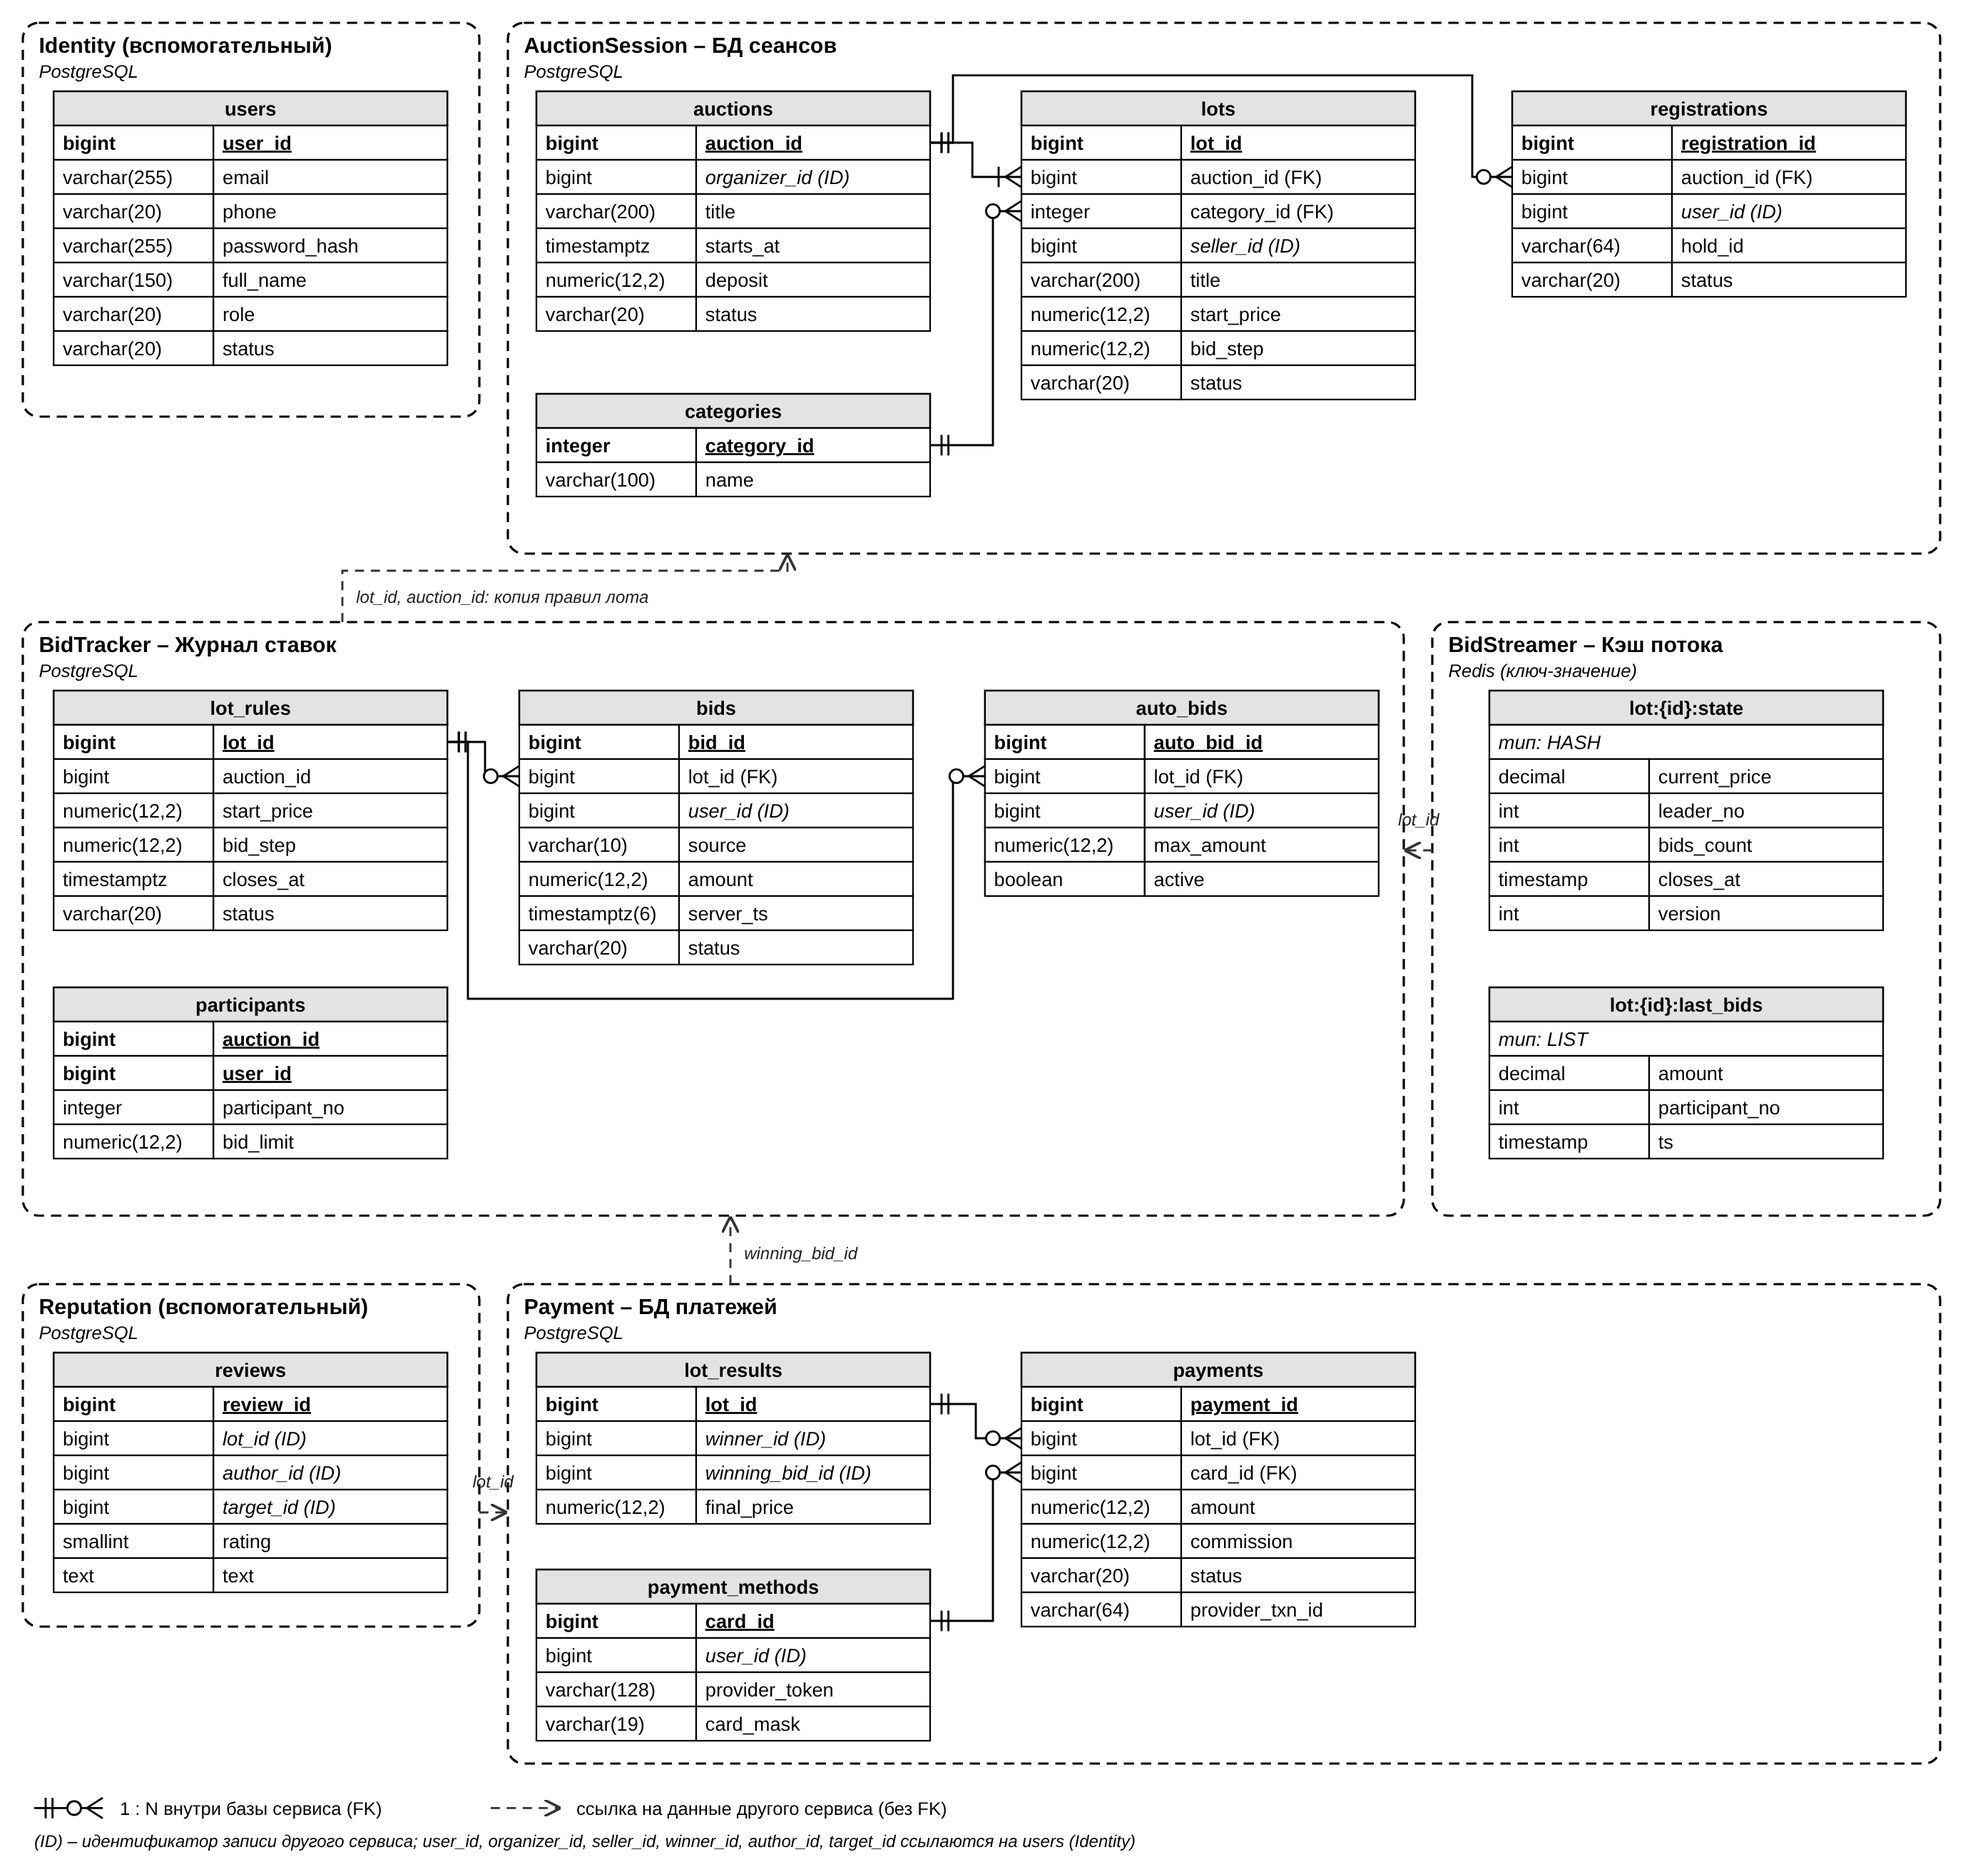
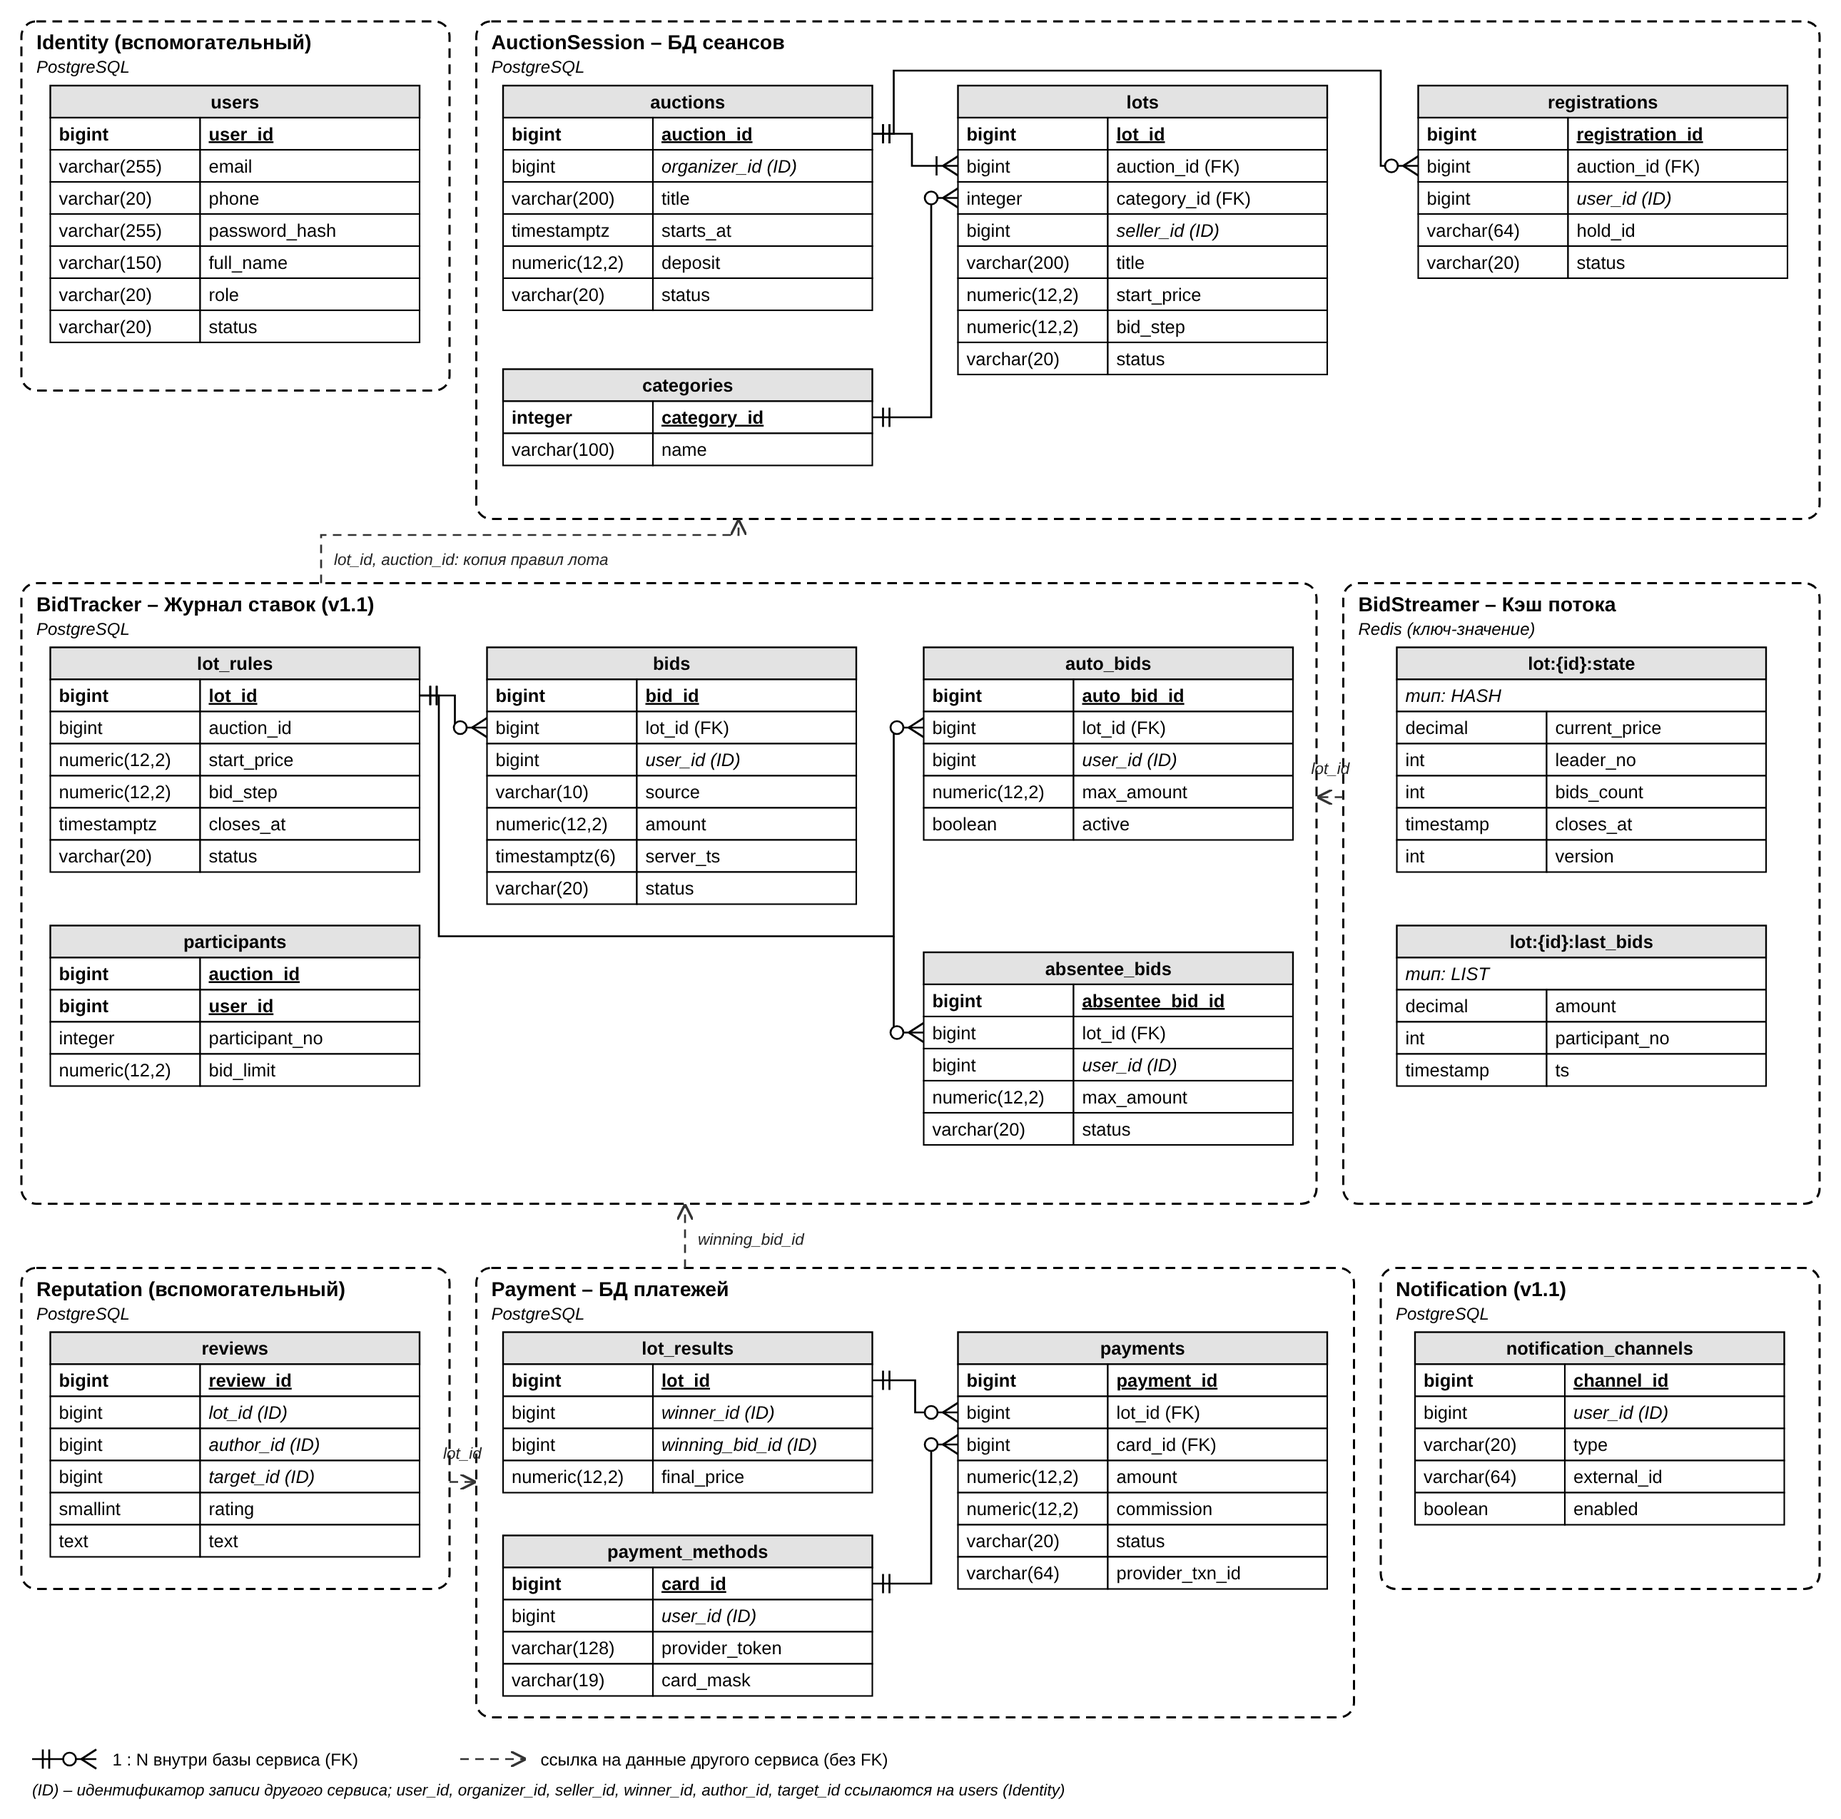
FB-1 – FB-4: спецификация API v1.1, модель данных и заготовка сервиса telegram-adapter
API: POST/DELETE /lots/{lotId}/absentee-bids (FB-1), POST /auth/step-up и
заголовок X-Step-Up-Token (FB-2), PUT/DELETE
/users/me/notification-channels/telegram (FB-4); новые коды
STEP_UP_REQUIRED, INVALID_OTP, ABSENTEE_NOT_ALLOWED.
Модель данных: таблица absentee_bids в базе BidTracker, база Notification
с таблицей notification_channels.

diff --git a/design/er/logical_gen.py b/design/er/logical_gen.py
@@ -1,5 +1,5 @@
 """Логическая ER-модель HammerLive по базам сервисов (SVG, нотация «вороньей лапки»)."""
-W, H = 1720, 1640
+W, H = 1720, 1700
 o = []
 a = o.append
 SANS = 'font-family="Liberation Sans, Arial, sans-serif"'
@@ -101,7 +101,7 @@ one(px, py, 1); many(1325, cy, -1)
 
 # ================= row 2 =================
 R2 = 545
-cluster(20, R2, 1210, 520, 'BidTracker – Журнал ставок', 'PostgreSQL')
+cluster(20, R2, 1210, 580, 'BidTracker – Журнал ставок (v1.1)', 'PostgreSQL')
 table('lot_rules', 47, R2 + 60, [('lot_id','bigint','PK'),('auction_id','bigint',''),('start_price','numeric(12,2)',''),('bid_step','numeric(12,2)',''),('closes_at','timestamptz',''),('status','varchar(20)','')])
 table('participants', 47, R2 + 320, [('auction_id','bigint','PK'),('user_id','bigint','PK'),('participant_no','integer',''),('bid_limit','numeric(12,2)','')])
 table('bids', 455, R2 + 60, [('bid_id','bigint','PK'),('lot_id','bigint','FK'),('user_id','bigint','REF'),('source','varchar(10)',''),('amount','numeric(12,2)',''),('server_ts','timestamptz(6)',''),('status','varchar(20)','')])
@@ -111,16 +111,22 @@ rel('lot_rules', 'lot_id', 'bids', 'lot_id', 425)
 px = 47 + TWW; py = row_y('lot_rules', 'lot_id'); cy = row_y('auto_bids', 'lot_id')
 a(f'<path d="M{px} {py} L410 {py} L410 {R2+330} L835 {R2+330} L835 {cy} L863 {cy}" fill="none" stroke="#000" stroke-width="1.8"/>')
 one(px, py, 1); many(863, cy, -1)
+table('absentee_bids', 863, R2 + 345, [('absentee_bid_id','bigint','PK'),('lot_id','bigint','FK'),('user_id','bigint','REF'),('max_amount','numeric(12,2)',''),('status','varchar(20)','')])
+cy2 = row_y('absentee_bids', 'lot_id')
+a(f'<path d="M835 {R2+330} L835 {cy2} L863 {cy2}" fill="none" stroke="#000" stroke-width="1.8"/>')
+many(863, cy2, -1)
 
-cluster(1255, R2, 445, 520, 'BidStreamer – Кэш потока', 'Redis (ключ-значение)')
+cluster(1255, R2, 445, 580, 'BidStreamer – Кэш потока', 'Redis (ключ-значение)')
 table('lot:{id}:state', 1305, R2 + 60, [('current_price','decimal',''),('leader_no','int',''),('bids_count','int',''),('closes_at','timestamp',''),('version','int','')], kv='HASH')
 table('lot:{id}:last_bids', 1305, R2 + 320, [('amount','decimal',''),('participant_no','int',''),('ts','timestamp','')], kv='LIST')
 
 # ================= row 3 =================
-R3 = 1125
+R3 = 1185
 cluster(20, R3, 400, 300, 'Reputation (вспомогательный)', 'PostgreSQL')
 table('reviews', 47, R3 + 60, [('review_id','bigint','PK'),('lot_id','bigint','REF'),('author_id','bigint','REF'),('target_id','bigint','REF'),('rating','smallint',''),('text','text','')])
-cluster(445, R3, 1255, 420, 'Payment – БД платежей', 'PostgreSQL')
+cluster(445, R3, 820, 420, 'Payment – БД платежей', 'PostgreSQL')
+cluster(1290, R3, 410, 300, 'Notification (v1.1)', 'PostgreSQL')
+table('notification_channels', 1322, R3 + 60, [('channel_id','bigint','PK'),('user_id','bigint','REF'),('type','varchar(20)',''),('external_id','varchar(64)',''),('enabled','boolean','')])
 table('lot_results', 470, R3 + 60, [('lot_id','bigint','PK'),('winner_id','bigint','REF'),('winning_bid_id','bigint','REF'),('final_price','numeric(12,2)','')])
 table('payment_methods', 470, R3 + 250, [('card_id','bigint','PK'),('user_id','bigint','REF'),('provider_token','varchar(128)',''),('card_mask','varchar(19)','')])
 table('payments', 895, R3 + 60, [('payment_id','bigint','PK'),('lot_id','bigint','FK'),('card_id','bigint','FK'),('amount','numeric(12,2)',''),('commission','numeric(12,2)',''),('status','varchar(20)',''),('provider_txn_id','varchar(64)','')])
@@ -131,12 +137,12 @@ rel('payment_methods', 'card_id', 'payments', 'card_id', 870)
 ref([(300, R2), (300, 500), (690, 500), (690, 487)], 'lot_id, auction_id: копия правил лота', 312, 528)
 ref([(1255, R2 + 200), (1232, R2 + 200)], '', 0, 0)
 text(1243, R2 + 178, 'lot_id', 15, italic=True, anchor='middle', fill='#222')
-ref([(640, R3), (640, 1067)], 'winning_bid_id', 652, R3 - 22)
+ref([(640, R3), (640, R2 + 582)], 'winning_bid_id', 652, R3 - 22)
 ref([(420, R3 + 200), (443, R3 + 200)], '', 0, 0)
 text(432, R3 + 178, 'lot_id', 15, italic=True, anchor='middle', fill='#222')
 
 # ================= legend =================
-LY = 1590
+LY = 1650
 a(f'<line x1="30" y1="{LY-6}" x2="90" y2="{LY-6}" stroke="#000" stroke-width="1.8"/>')
 one(30, LY - 6, 1); many(90, LY - 6, -1)
 text(105, LY, '1 : N внутри базы сервиса (FK)', 16)

diff --git a/src/services/telegram-adapter/app/main.py b/src/services/telegram-adapter/app/main.py
@@ -1,0 +1,9 @@
+"""Сервис TelegramAdapter ИС HammerLive (заготовка)."""
+from fastapi import FastAPI
+
+app = FastAPI(title="HammerLive TelegramAdapter", version="0.1.0")
+
+
+@app.get("/health")
+def health() -> dict:
+    return {"service": "telegram-adapter", "status": "ok"}

diff --git a/src/services/telegram-adapter/tests/test_health.py b/src/services/telegram-adapter/tests/test_health.py
@@ -1,0 +1,9 @@
+from fastapi.testclient import TestClient
+
+from app.main import app
+
+
+def test_health():
+    r = TestClient(app).get("/health")
+    assert r.status_code == 200
+    assert r.json()["status"] == "ok"

diff --git a/src/services/telegram-adapter/README.md b/src/services/telegram-adapter/README.md
@@ -1,0 +1,5 @@
+# TelegramAdapter
+
+Доставка уведомлений сервиса Notification через Telegram Bot API, привязка аккаунта по одноразовому коду (FR-NTF-03, FB-4).
+
+Статус: заготовка модуля. Контракт внешнего API – `api/openapi.yaml`.
